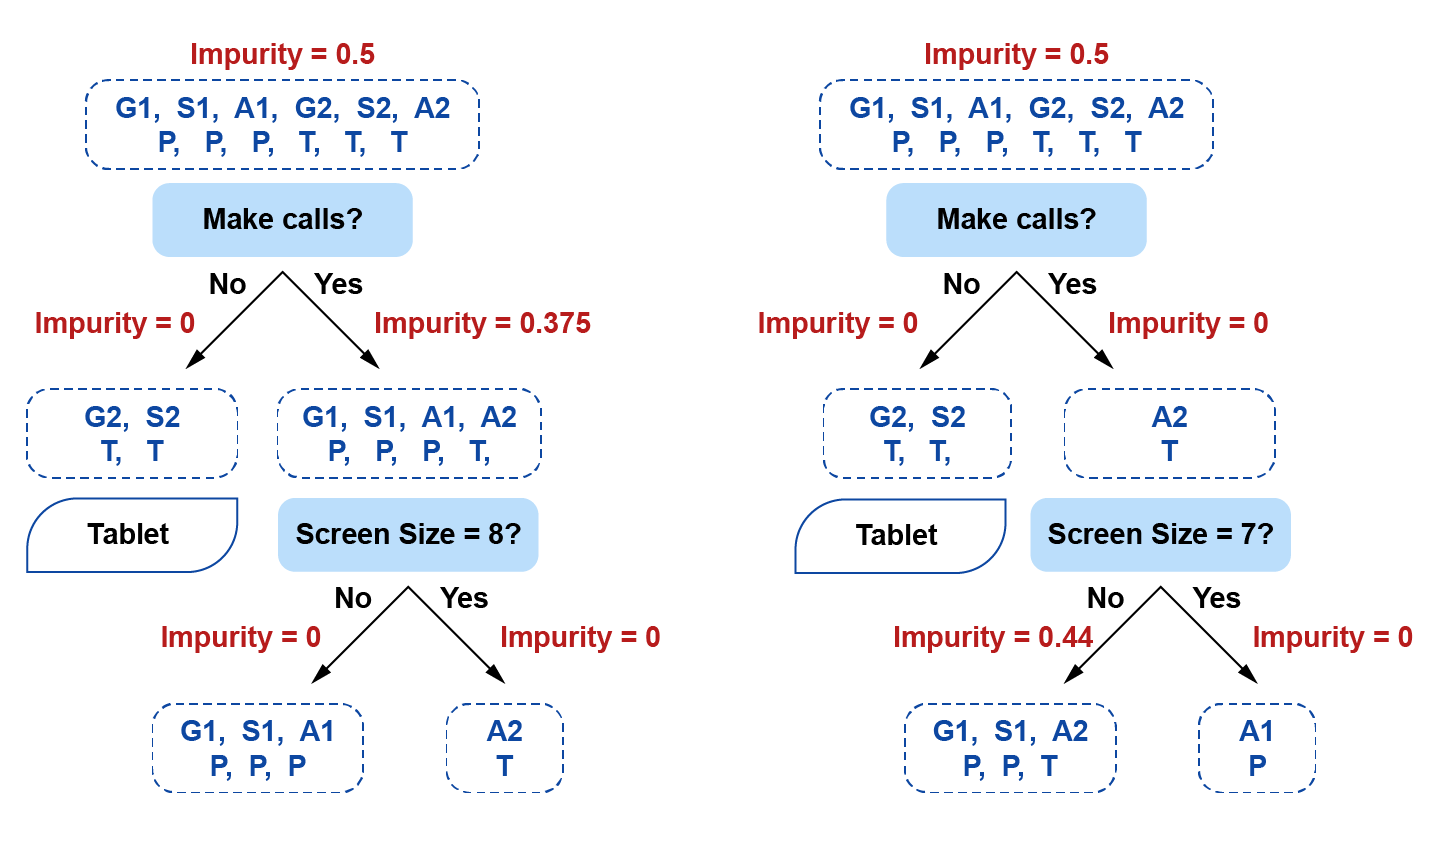
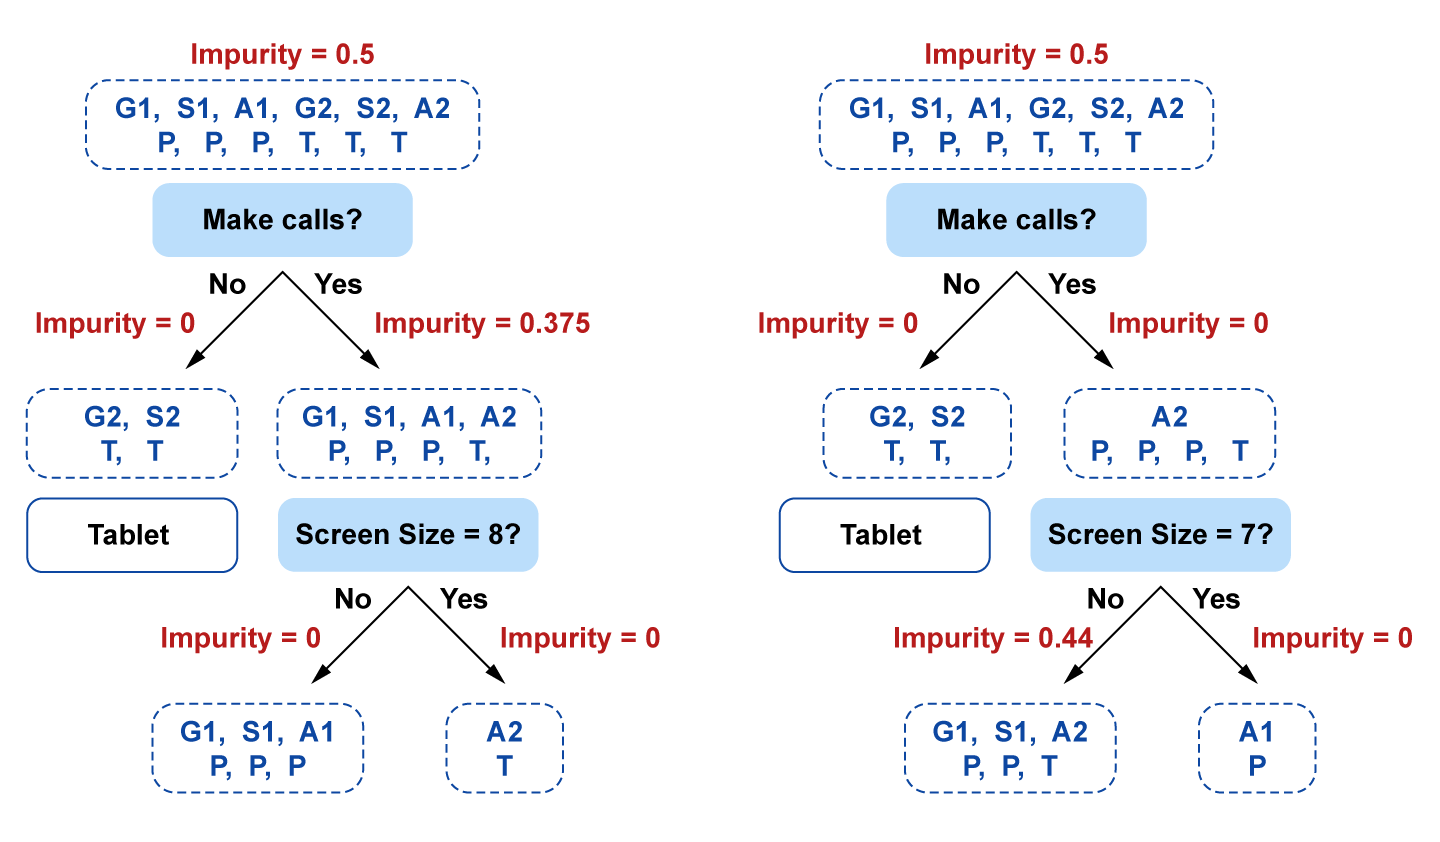
corrections to gini impurity calculation and fig 2.4 in unit 2 1b

diff --git a/docs/content/unit2/02_02_DT_training.md b/docs/content/unit2/02_02_DT_training.md
@@ -101,7 +101,7 @@ $$
 \left(\begin{array}{c}
 G_{1} S_{1} A_{1} A_{2} \\
 P P P T
-\end{array}\right)=1-\left[\left(\frac{1}{3}\right)^{2}+\left(\frac{2}{3}\right)^{2}\right] \\
+\end{array}\right)=1-\left[\left(\frac{1}{4}\right)^{2}+\left(\frac{3}{4}\right)^{2}\right] \\
 =0.375
 \end{array}
 $$
